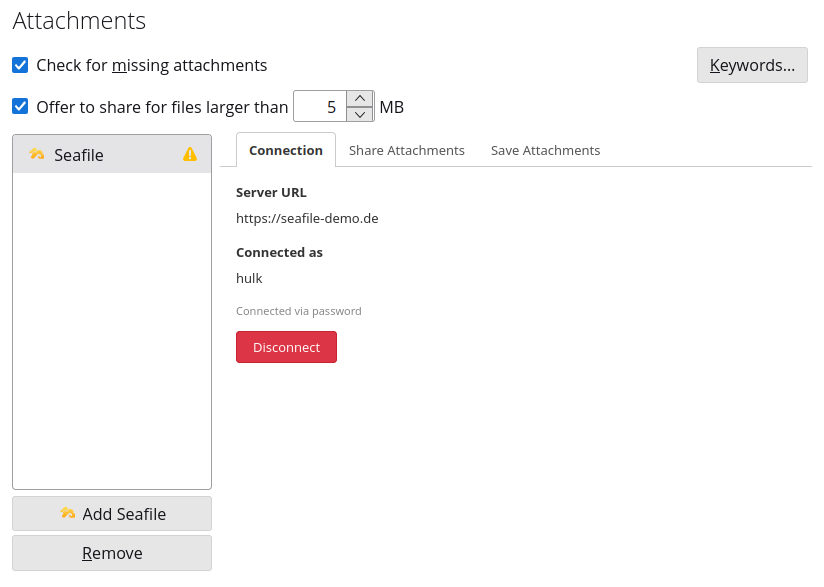
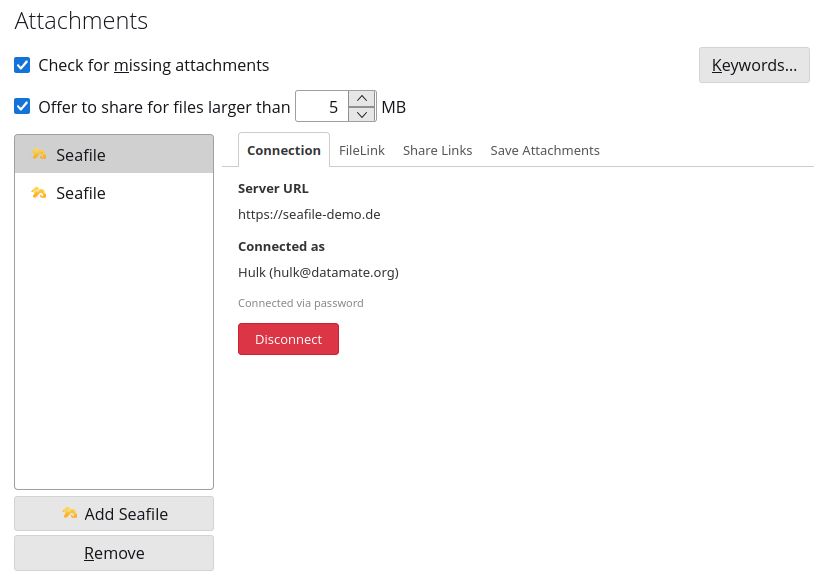
Update screenshots for v1.3.0 UI
- Replace insert-link-browse, save-attachments, connection-connected, save-settings
- Add new filelink-settings and share-link-settings screenshots
- Remove old share-settings screenshot
- Update README screenshot descriptions for new 4-tab layout,
  multi-account selector, file filter, and password modes

diff --git a/README.md b/README.md
@@ -7,36 +7,37 @@ Built by [datamate](https://datamate.org), the Seafile partner for Europe.
 ## Screenshots
 
 ![Insert Seafile Link — Browse files](docs/screenshots/insert-link-browse.png)
-*Browse your Seafile libraries and insert share links directly into emails.*
+*Browse your Seafile libraries, filter by name, and insert share links directly into emails.*
 
 ![Insert Seafile Link — Link options](docs/screenshots/insert-link-detail.png)
 *Set password and expiration per link before inserting.*
 
-![Inserted link with password and expiry](docs/screenshots/insert-link-box.png)
-*The inserted link matches the CloudFile template style with file name, size, password, and Seafile logo.*
-
 ![Save attachments to Seafile](docs/screenshots/save-attachments.png)
-*Save received email attachments directly to your Seafile server.*
+*Save received email attachments directly to your Seafile server. Account selector for multi-account setups.*
 
 <details>
 <summary>More screenshots</summary>
 
+![Inserted link with password and expiry](docs/screenshots/insert-link-box.png)
+*The inserted link matches the CloudFile template style with file name, size, password, and Seafile logo.*
+
 ![CloudFile template](docs/screenshots/cloudfile-box.png)
-*Attachments uploaded via Thunderbird's built-in Filelink also use the Seafile provider.*
+*Attachments uploaded via Thunderbird's built-in FileLink also use the Seafile provider.*
+
+![Connection — Connected](docs/screenshots/connection-connected.png)
+*Connected state shows server, display name, and authentication method. Multiple accounts supported.*
+
+![FileLink settings](docs/screenshots/filelink-settings.png)
+*Configure target library, upload folder, and password protection (none, random, or custom) for FileLink uploads.*
+
+![Share Links settings](docs/screenshots/share-link-settings.png)
+*Set defaults for share links — password, expiration, and show-password-in-email option.*
+
+![Save Attachments settings](docs/screenshots/save-settings.png)
+*Set default library and folder for saving received attachments, with collapsible folder picker.*
 
 ![Connection — Login](docs/screenshots/connection.png)
 *Connect with username/password (with optional 2FA) or via SSO.*
-
-![Connection — Connected](docs/screenshots/connection-connected.png)
-*Connected state shows server, user, and authentication method.*
-
-![Share Attachments settings](docs/screenshots/share-settings.png)
-*Configure target library, upload folder, password protection, and expiration. (Settings have since been reorganized into FileLink and Share Links tabs.)*
-
-![Save Attachments settings](docs/screenshots/save-settings.png)
-*Set default library and folder for saving received attachments.*
-
-**Note:** Some screenshots may show an earlier UI version. The current version (1.3.0) has four settings tabs: Connection, FileLink, Share Links, and Save Attachments.
 
 </details>
 
